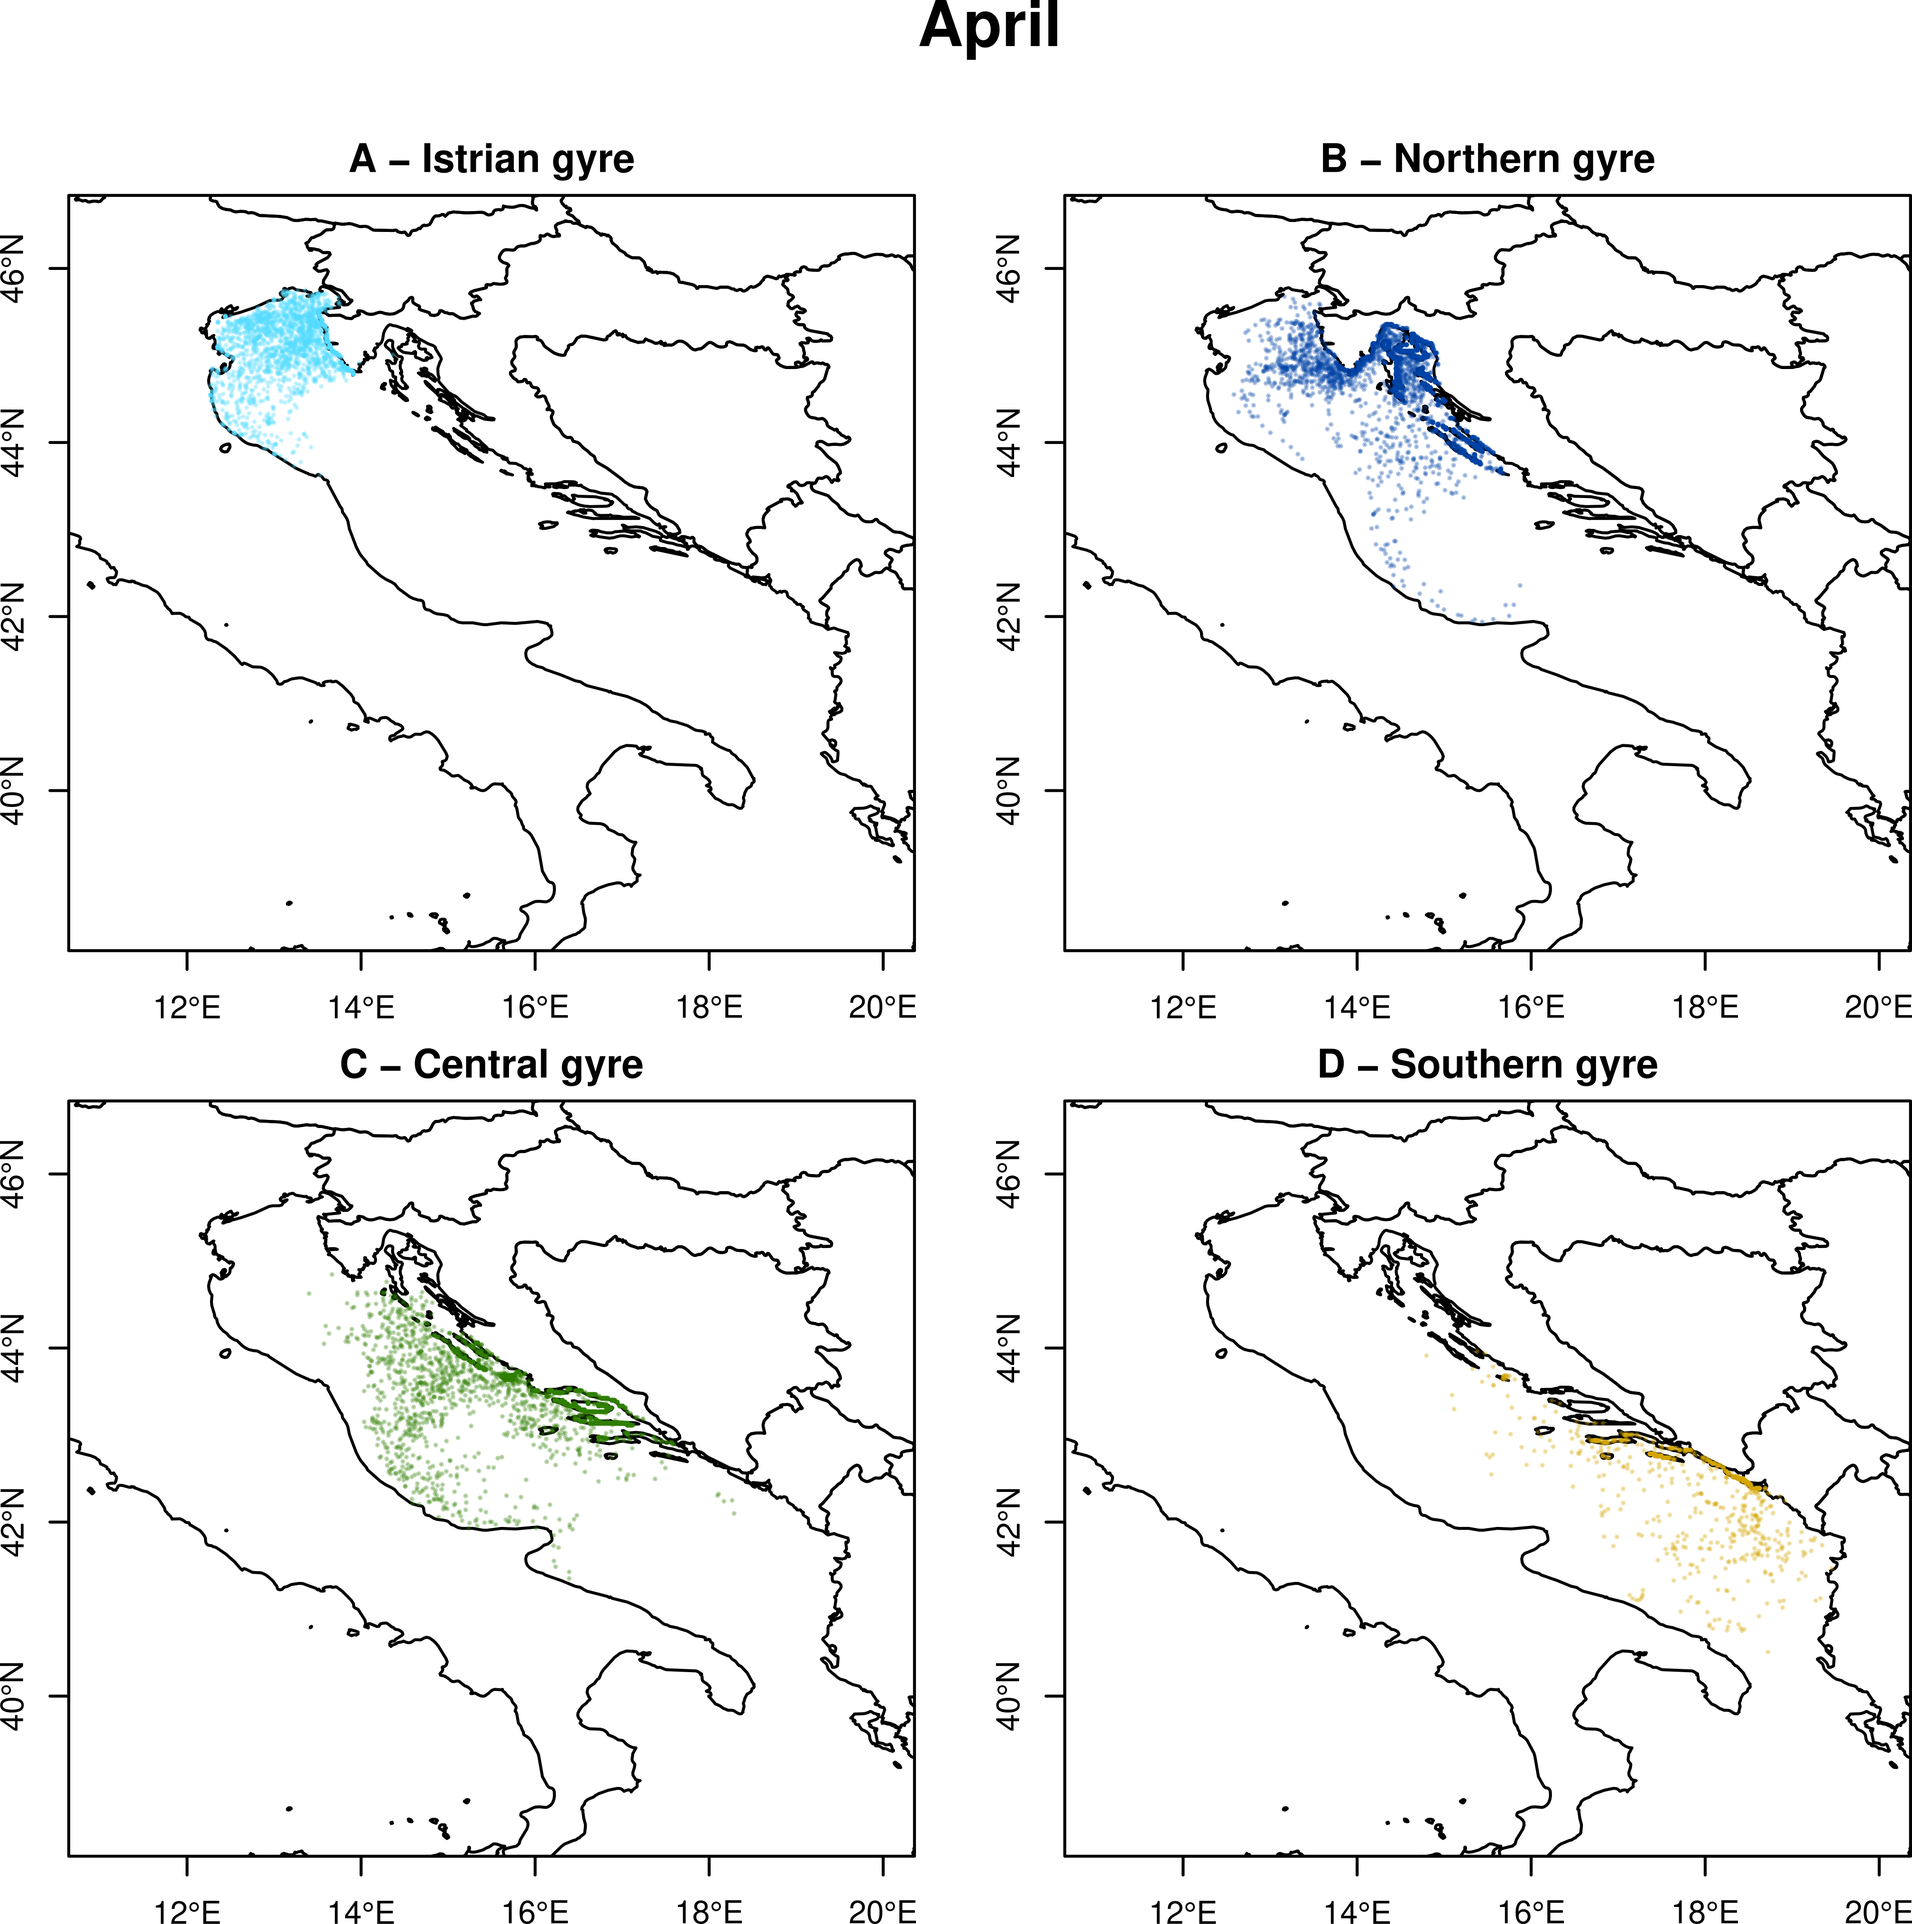
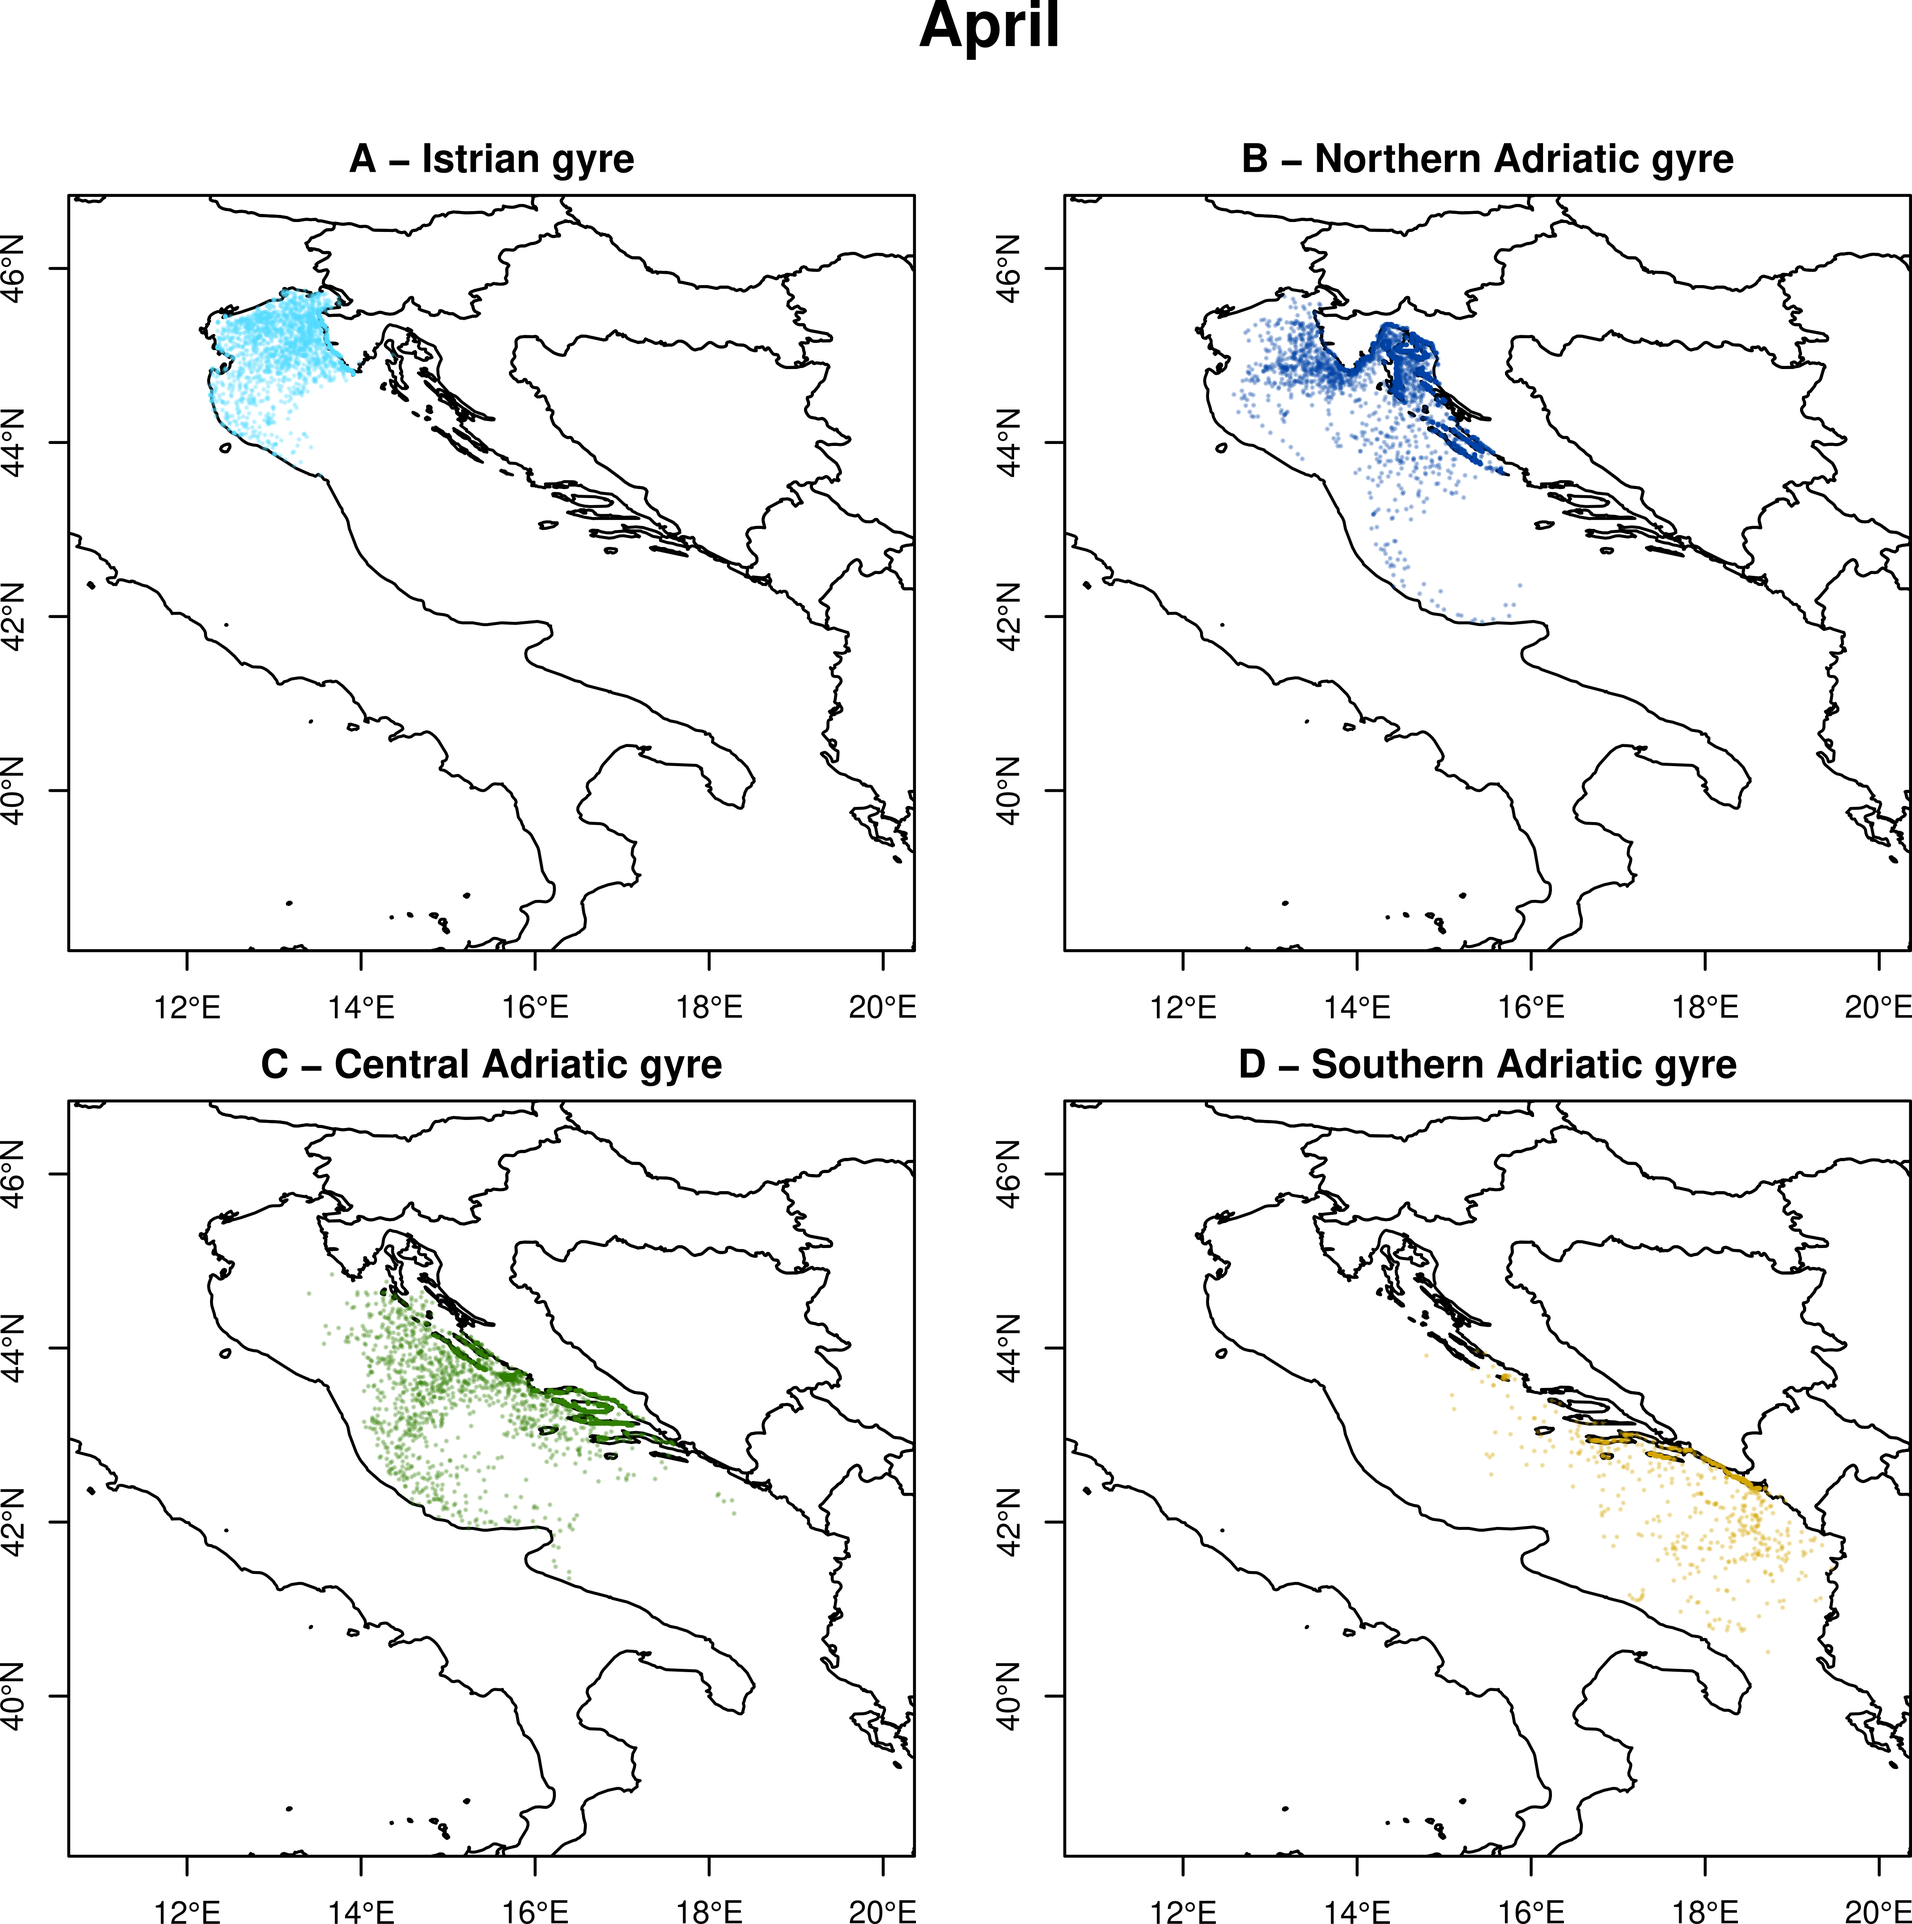
modify title of per group per month plots

Changed region(s): [[0.6512, 0.5281, 0.8993, 0.5592], [0.6512, 0.0621, 0.8993, 0.0932], [0.155, 0.5281, 0.3721, 0.5592]]

diff --git a/code/visualization/README.md b/code/visualization/README.md
@@ -42,11 +42,11 @@ Rscript <(cat <(echo "setwd('$(pwd)')") plot_by_group_by_month.R)
 
 #convert the pdfs to pngs using convert
 apt-get update
-apt-get install imagemagick
+apt-get install -y imagemagick
 convert by_group_4_panel_paper_convert.pdf -background transparent by_group_4_panel_paper.png
 
 #convert the pdfs to pngs using inkscape
-apt-get install inkscape
+apt-get install -y inkscape
 for pdf in $(ls -1 *.pdf)
 do 
 	inkscape --export-dpi=600 --export-area-drawing --export-type=png $pdf
